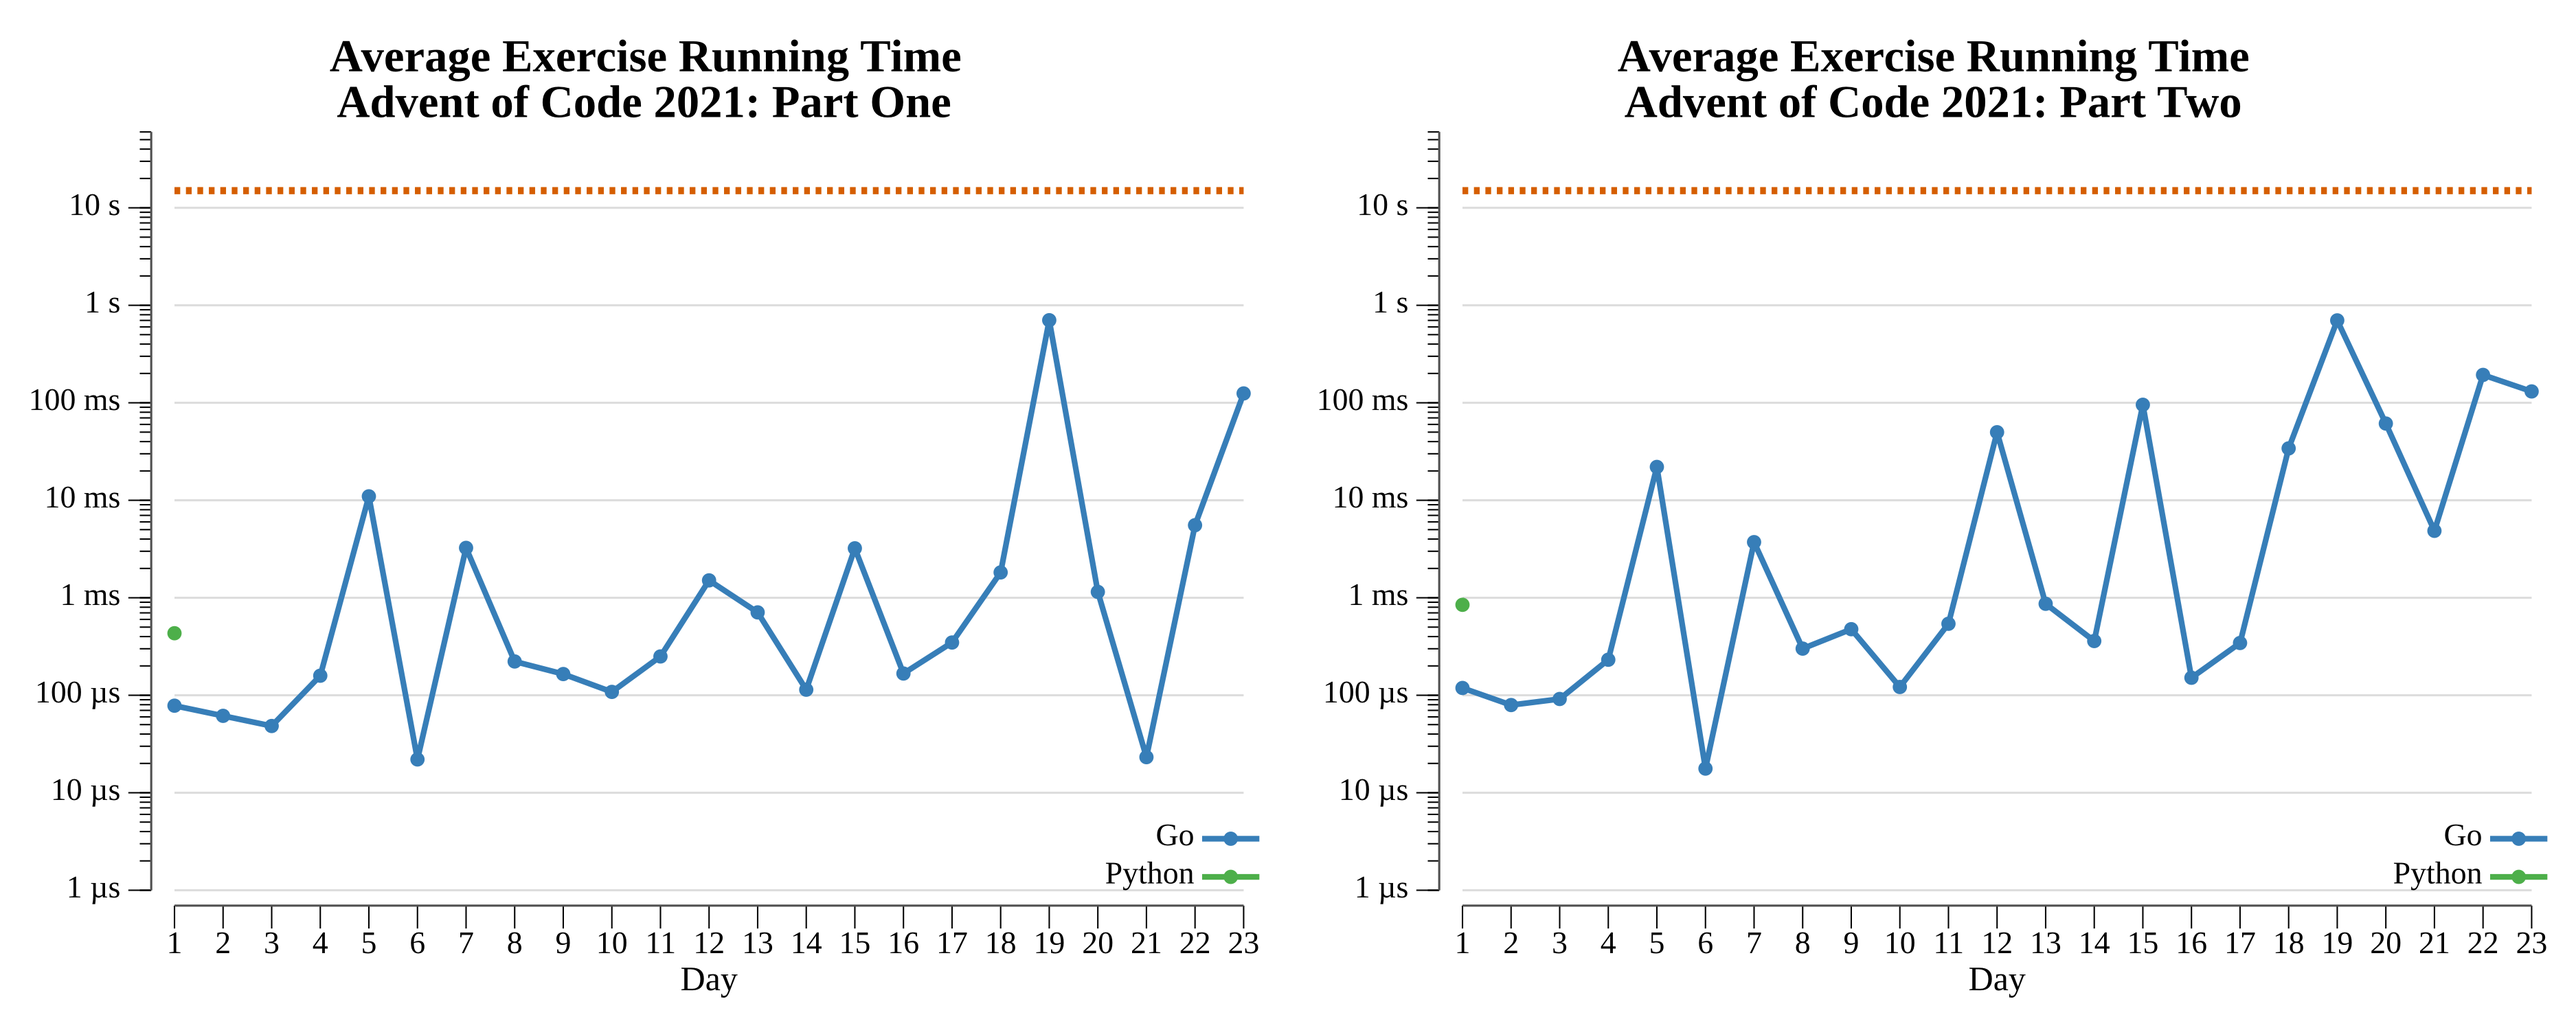
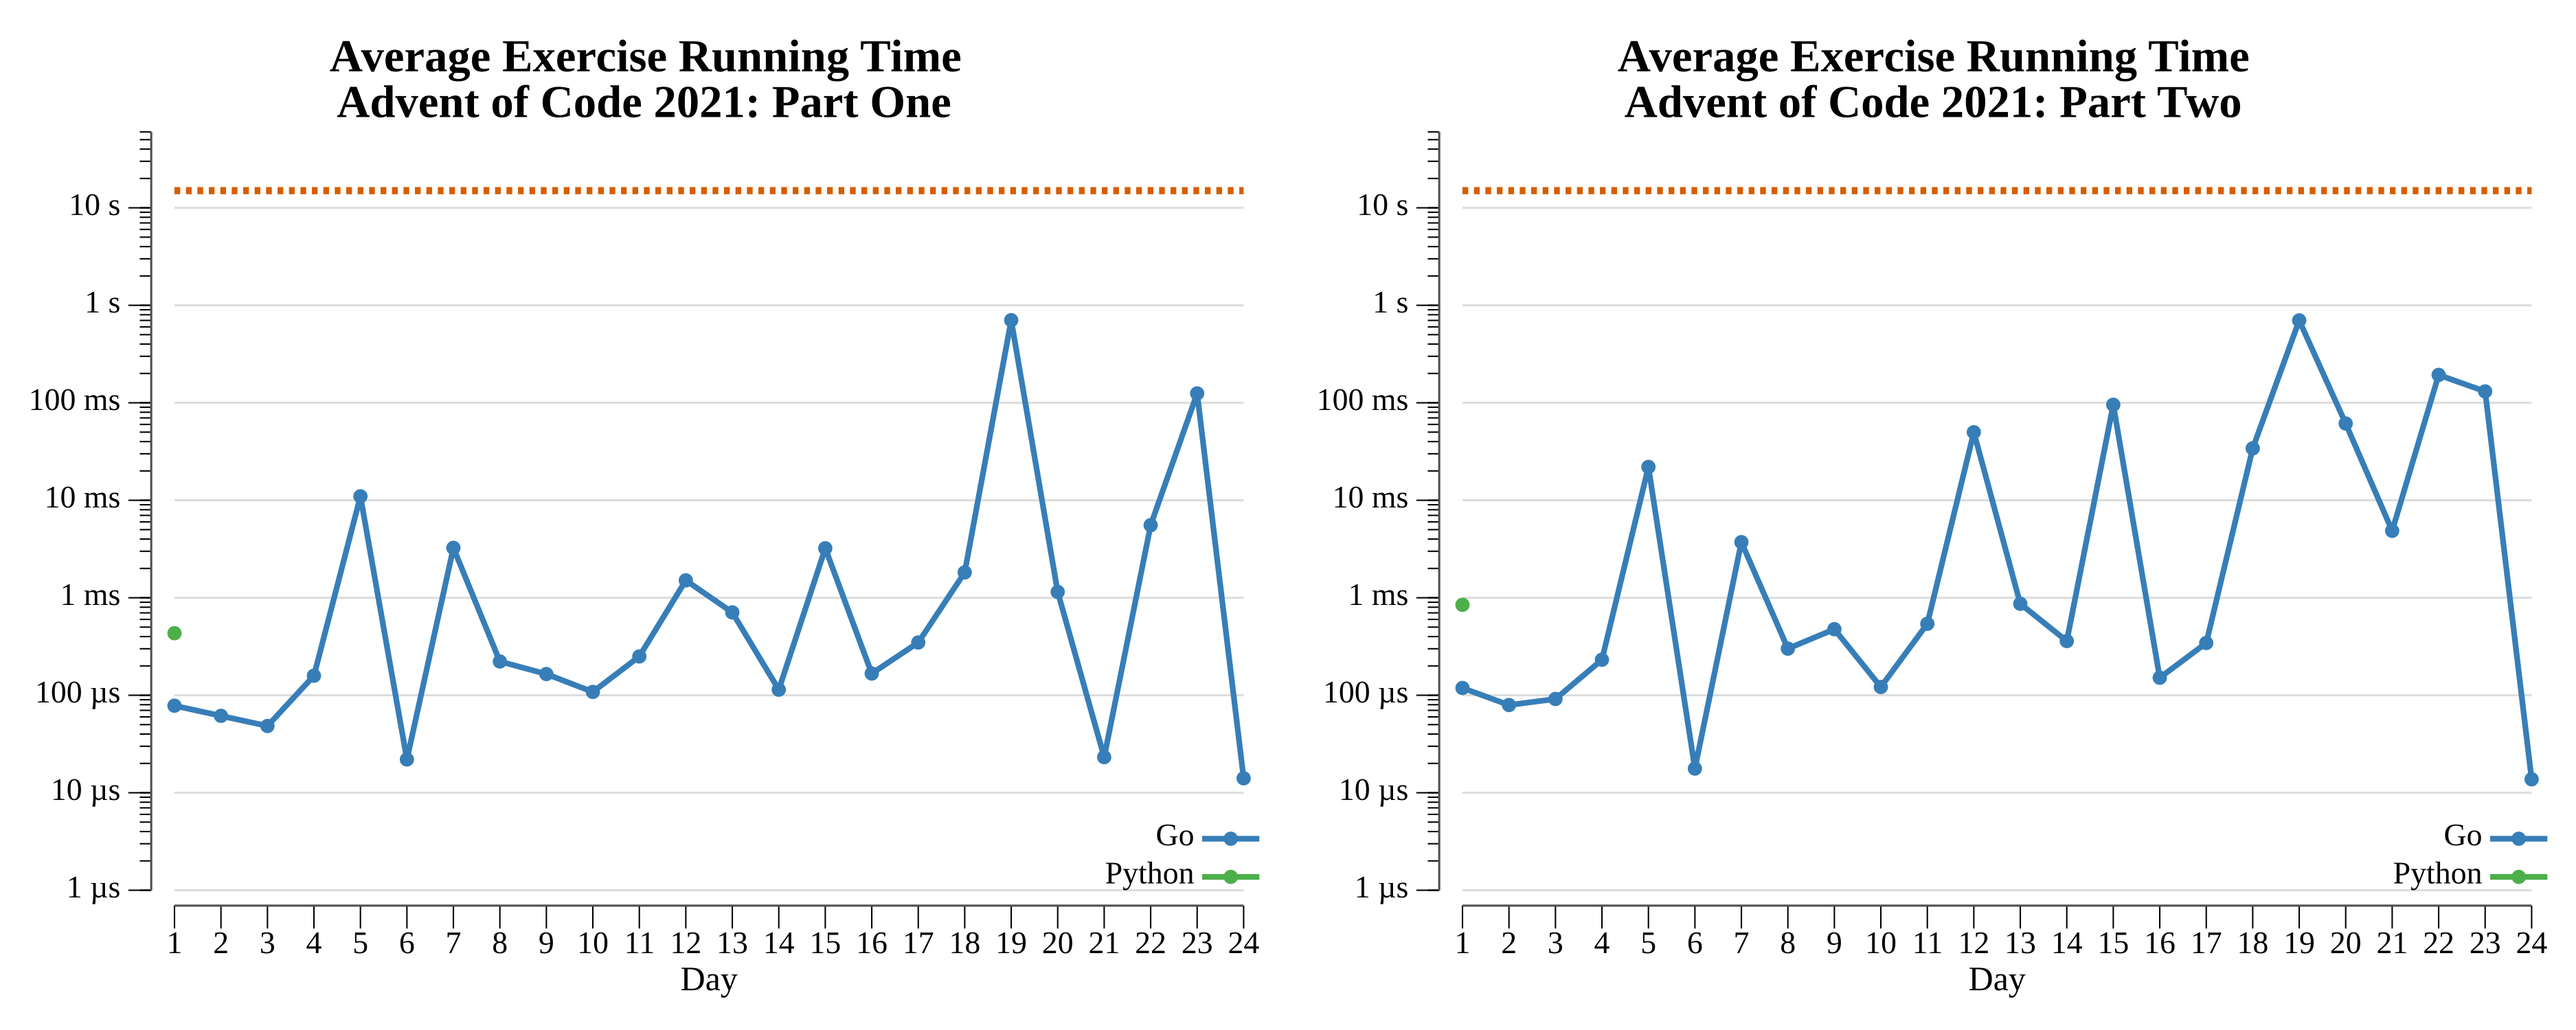
2021 day 24

diff --git a/exercises/2021/24-arithmeticLogicUnit/go/exercise.go b/exercises/2021/24-arithmeticLogicUnit/go/exercise.go
@@ -1,0 +1,127 @@
+package exercises
+
+import (
+	"fmt"
+	"strconv"
+	"strings"
+
+	"github.com/asphaltbuffet/advent-of-code/internal/common"
+)
+
+// Exercise for Advent of Code 2021 day 24.
+type Exercise struct {
+	common.BaseExercise
+}
+
+// The MONAD program is 14 near-identical blocks, one per input digit. Each block
+// differs only in three parameters extracted from fixed lines:
+//
+//	div z A   (A is 1 → "push", or 26 → "pop")
+//	add x B
+//	add y C
+//
+// A push block does z = z*26 + (w+C). A pop block requires w == z%26 + B to
+// cancel a previous push (leaving z reducible toward 0); B is always negative for
+// pops. Pairing each pop with the push it cancels yields a linear constraint
+// between the two digits, and the model number is built by choosing digits within
+// 1..9 to satisfy them.
+type block struct {
+	div, addX, addY int
+}
+
+func parseBlocks(instr string) ([]block, error) {
+	lines := strings.Split(strings.TrimSpace(instr), "\n")
+	var blocks []block
+	for i := 0; i+18 <= len(lines); i += 18 {
+		if strings.TrimSpace(lines[i]) != "inp w" {
+			return nil, fmt.Errorf("expected 'inp w' at line %d, got %q", i, lines[i])
+		}
+		div, err1 := lastInt(lines[i+4]) // div z A
+		addX, err2 := lastInt(lines[i+5]) // add x B
+		addY, err3 := lastInt(lines[i+15]) // add y C
+		if err1 != nil || err2 != nil || err3 != nil {
+			return nil, fmt.Errorf("parsing block at line %d", i)
+		}
+		blocks = append(blocks, block{div, addX, addY})
+	}
+	if len(blocks) != 14 {
+		return nil, fmt.Errorf("expected 14 blocks, got %d", len(blocks))
+	}
+	return blocks, nil
+}
+
+func lastInt(line string) (int, error) {
+	fields := strings.Fields(line)
+	return strconv.Atoi(fields[len(fields)-1])
+}
+
+// pairing holds a constraint w[j] = w[i] + delta between two digit positions.
+type pairing struct {
+	i, j, delta int
+}
+
+// constraints pairs each pop block with the push it cancels and returns the
+// resulting digit relations.
+func constraints(blocks []block) []pairing {
+	type entry struct {
+		idx, addY int
+	}
+	var stack []entry
+	var pairs []pairing
+	for k, b := range blocks {
+		if b.div == 1 {
+			stack = append(stack, entry{k, b.addY})
+		} else {
+			top := stack[len(stack)-1]
+			stack = stack[:len(stack)-1]
+			// w[k] = w[top] + (top.addY + b.addX)
+			pairs = append(pairs, pairing{top.idx, k, top.addY + b.addX})
+		}
+	}
+	return pairs
+}
+
+// bestModel fills a 14-digit model number satisfying every pairing, choosing the
+// largest digits when maximize is true and the smallest otherwise.
+func bestModel(pairs []pairing, maximize bool) string {
+	digits := make([]int, 14)
+	for _, p := range pairs {
+		// w[j] = w[i] + delta, both in 1..9.
+		// Pick the extreme value of w[i] that keeps w[j] in range.
+		for wi := 1; wi <= 9; wi++ {
+			wj := wi + p.delta
+			if wj < 1 || wj > 9 {
+				continue
+			}
+			digits[p.i], digits[p.j] = wi, wj
+			if maximize {
+				// keep scanning; last valid (largest wi) wins
+			} else {
+				break // first valid (smallest wi) wins
+			}
+		}
+	}
+	var b strings.Builder
+	for _, d := range digits {
+		b.WriteByte(byte('0' + d))
+	}
+	return b.String()
+}
+
+// One returns the largest valid 14-digit model number.
+func (e Exercise) One(instr string) (any, error) {
+	blocks, err := parseBlocks(instr)
+	if err != nil {
+		return nil, err
+	}
+	return bestModel(constraints(blocks), true), nil
+}
+
+// Two returns the smallest valid 14-digit model number.
+func (e Exercise) Two(instr string) (any, error) {
+	blocks, err := parseBlocks(instr)
+	if err != nil {
+		return nil, err
+	}
+	return bestModel(constraints(blocks), false), nil
+}

diff --git a/exercises/2021/24-arithmeticLogicUnit/go/vis.go b/exercises/2021/24-arithmeticLogicUnit/go/vis.go
@@ -1,0 +1,94 @@
+package exercises
+
+import (
+	"fmt"
+	"os"
+	"path/filepath"
+	"strings"
+)
+
+// Vis renders the MONAD block structure as a pairing diagram (SVG). Each of the
+// 14 blocks is a column; push blocks (div z 1) and pop blocks (div z 26) are
+// marked distinctly. An arc joins every pop to the push it cancels, labeled with
+// the constraint w_pop = w_push + delta that links the two digits. The nested,
+// non-crossing arcs are the stack structure that collapses 14 free digits down to
+// 7 constraints, so both extreme model numbers are determined without any search.
+// Below each column the largest (part one) and smallest (part two) digits are
+// shown. Push vs pop reads by shape and label, not color alone.
+func (e Exercise) Vis(instr, outdir string) error {
+	blocks, err := parseBlocks(instr)
+	if err != nil {
+		return err
+	}
+	pairs := constraints(blocks)
+	maxModel := bestModel(pairs, true)
+	minModel := bestModel(pairs, false)
+
+	const (
+		n     = 14
+		colW  = 78
+		leftX = 60
+		baseY = 420
+		topY  = 250
+		boxW  = 46
+		boxH  = 34
+	)
+	W := leftX*2 + n*colW
+	H := 520
+
+	// Okabe-Ito: sky blue for push, vermilion for pop.
+	pushCol := "#56B4E9"
+	popCol := "#D55E00"
+
+	var sb strings.Builder
+	fmt.Fprintf(&sb, `<svg xmlns="http://www.w3.org/2000/svg" width="%d" height="%d" viewBox="0 0 %d %d" font-family="monospace">`, W, H, W, H)
+	fmt.Fprintf(&sb, `<rect width="%d" height="%d" fill="#111418"/>`, W, H)
+	fmt.Fprintf(&sb, `<text x="%d" y="24" fill="#e8ecf4" font-size="16">MONAD block pairing: 14 digits, 7 constraints</text>`, leftX)
+
+	cx := func(i int) int { return leftX + i*colW + colW/2 }
+
+	// Arcs (draw first so boxes sit on top). Nesting depth sets arc height.
+	// Compute a nesting level per pair for pleasant separation.
+	for _, p := range pairs {
+		x1, x2 := cx(p.i), cx(p.j)
+		span := p.j - p.i
+		lift := 40 + span*14
+		midX := (x1 + x2) / 2
+		ctrlY := topY - lift
+		fmt.Fprintf(&sb, `<path d="M %d %d Q %d %d %d %d" fill="none" stroke="#8a94a2" stroke-width="1.5"/>`,
+			x1, topY, midX, ctrlY, x2, topY)
+		sign := "+"
+		d := p.delta
+		if d < 0 {
+			sign, d = "-", -d
+		}
+		fmt.Fprintf(&sb, `<text x="%d" y="%d" fill="#c8d0dc" font-size="11" text-anchor="middle">w%d = w%d %s %d</text>`,
+			midX, ctrlY-4, p.j+1, p.i+1, sign, d)
+	}
+
+	// Column boxes and labels.
+	for i, b := range blocks {
+		x := leftX + i*colW + (colW-boxW)/2
+		col := pushCol
+		kind := "push"
+		if b.div == 26 {
+			col = popCol
+			kind = "pop"
+		}
+		fmt.Fprintf(&sb, `<rect x="%d" y="%d" width="%d" height="%d" rx="4" fill="%s"/>`, x, topY, boxW, boxH, col)
+		fmt.Fprintf(&sb, `<text x="%d" y="%d" fill="#0d0f18" font-size="12" font-weight="bold" text-anchor="middle">%d</text>`, cx(i), topY+15, i+1)
+		fmt.Fprintf(&sb, `<text x="%d" y="%d" fill="#0d0f18" font-size="10" text-anchor="middle">%s</text>`, cx(i), topY+28, kind)
+
+		// digit rows
+		fmt.Fprintf(&sb, `<text x="%d" y="%d" fill="%s" font-size="18" font-weight="bold" text-anchor="middle">%c</text>`,
+			cx(i), baseY, pushCol, maxModel[i])
+		fmt.Fprintf(&sb, `<text x="%d" y="%d" fill="%s" font-size="18" font-weight="bold" text-anchor="middle">%c</text>`,
+			cx(i), baseY+34, popCol, minModel[i])
+	}
+
+	fmt.Fprintf(&sb, `<text x="%d" y="%d" fill="%s" font-size="12" text-anchor="start">largest</text>`, 6, baseY, pushCol)
+	fmt.Fprintf(&sb, `<text x="%d" y="%d" fill="%s" font-size="12" text-anchor="start">smallest</text>`, 6, baseY+34, popCol)
+
+	sb.WriteString(`</svg>`)
+	return os.WriteFile(filepath.Join(outdir, "monad-pairing.svg"), []byte(sb.String()), 0o600)
+}

diff --git a/exercises/2021/24-arithmeticLogicUnit/README.md b/exercises/2021/24-arithmeticLogicUnit/README.md
@@ -1,0 +1,57 @@
+# [Day 24: Arithmetic Logic Unit](https://adventofcode.com/2021/day/24)
+
+<!-- These are helper text to make formatting the yearly readme consistent and easier...
+
+[Day 24: Arithmetic Logic Unit][rm24]
+[Go][go24]
+
+[rm24]: 24-arithmeticLogicUnit/README.md
+[go24]: 24-arithmeticLogicUnit/go
+
+-->
+
+## Notes
+
+The MONAD program is 14 near-identical blocks, one per input digit, differing
+only in three parameters: `div z A` (A is 1 or 26), `add x B`, and `add y C`.
+Reading the assembly, each block treats `z` as a base-26 stack:
+
+- A block with `A = 1` always **pushes** `w + C` (its `B` is large enough that the
+  equality test can never hold).
+- A block with `A = 26` **pops** and only leaves `z` reducible toward 0 when
+  `w == (z % 26) + B`.
+
+Pairing each pop with the push it cancels (via a stack) turns "z ends at 0" into
+seven linear constraints of the form `w_pop = w_push + delta`. That collapses the
+14 free digits to 7, so the largest and smallest valid model numbers are read off
+directly by choosing each independent digit at its extreme — no search of the
+9^14 space. Both answers verify by running them back through an ALU interpreter of
+the real program (`z == 0`).
+
+## Go
+
+```text
+────────────────────────────────────────
+─  2021 Day 24: Arithmetic Logic Unit  ─
+────────────────────────────────────────
+
+Solving (Go)…
+1.0:  PASS            14.793µs
+2.0:  PASS             8.839µs
+```
+
+## Visualization
+
+The 14 blocks drawn as a row, each marked push (`div z 1`) or pop (`div z 26`).
+An arc joins every pop to the push it cancels, labeled with the constraint
+`w_pop = w_push + delta` linking the two digits. The arcs are nested and never
+cross — they are exactly the base-26 stack structure — and the seven of them are
+what determine the answer without search. Below each column the largest (Part
+One) and smallest (Part Two) digits are shown. Push versus pop is labeled, so the
+diagram reads without relying on color.
+
+![MONAD block pairing](monad-pairing.svg)
+
+## Run Times
+
+![Day 24 run-time graphs](run-times.png)

diff --git a/exercises/2021/README.md b/exercises/2021/README.md
@@ -29,7 +29,7 @@
 | [Day 21: Dirac Dice](21-diracDice/README.md)  |  ★ ★  | [Go](21-diracDice/go)                              |
 | [Day 22: Reactor Reboot](22-reactorReboot/README.md) |  ★ ★  | [Go](22-reactorReboot/go)                          |
 | [Day 23: Amphipod](23-amphipod/README.md)     |  ★ ★  | [Go](23-amphipod/go)                               |
-| 24                                            |  ☆ ☆  |                                                    |
+| [Day 24: Arithmetic Logic Unit](24-arithmeticLogicUnit/README.md) |  ★ ★  | [Go](24-arithmeticLogicUnit/go)                    |
 | 25                                            |  ☆ ☆  |                                                    |
 
 ## 2021 Run Times
